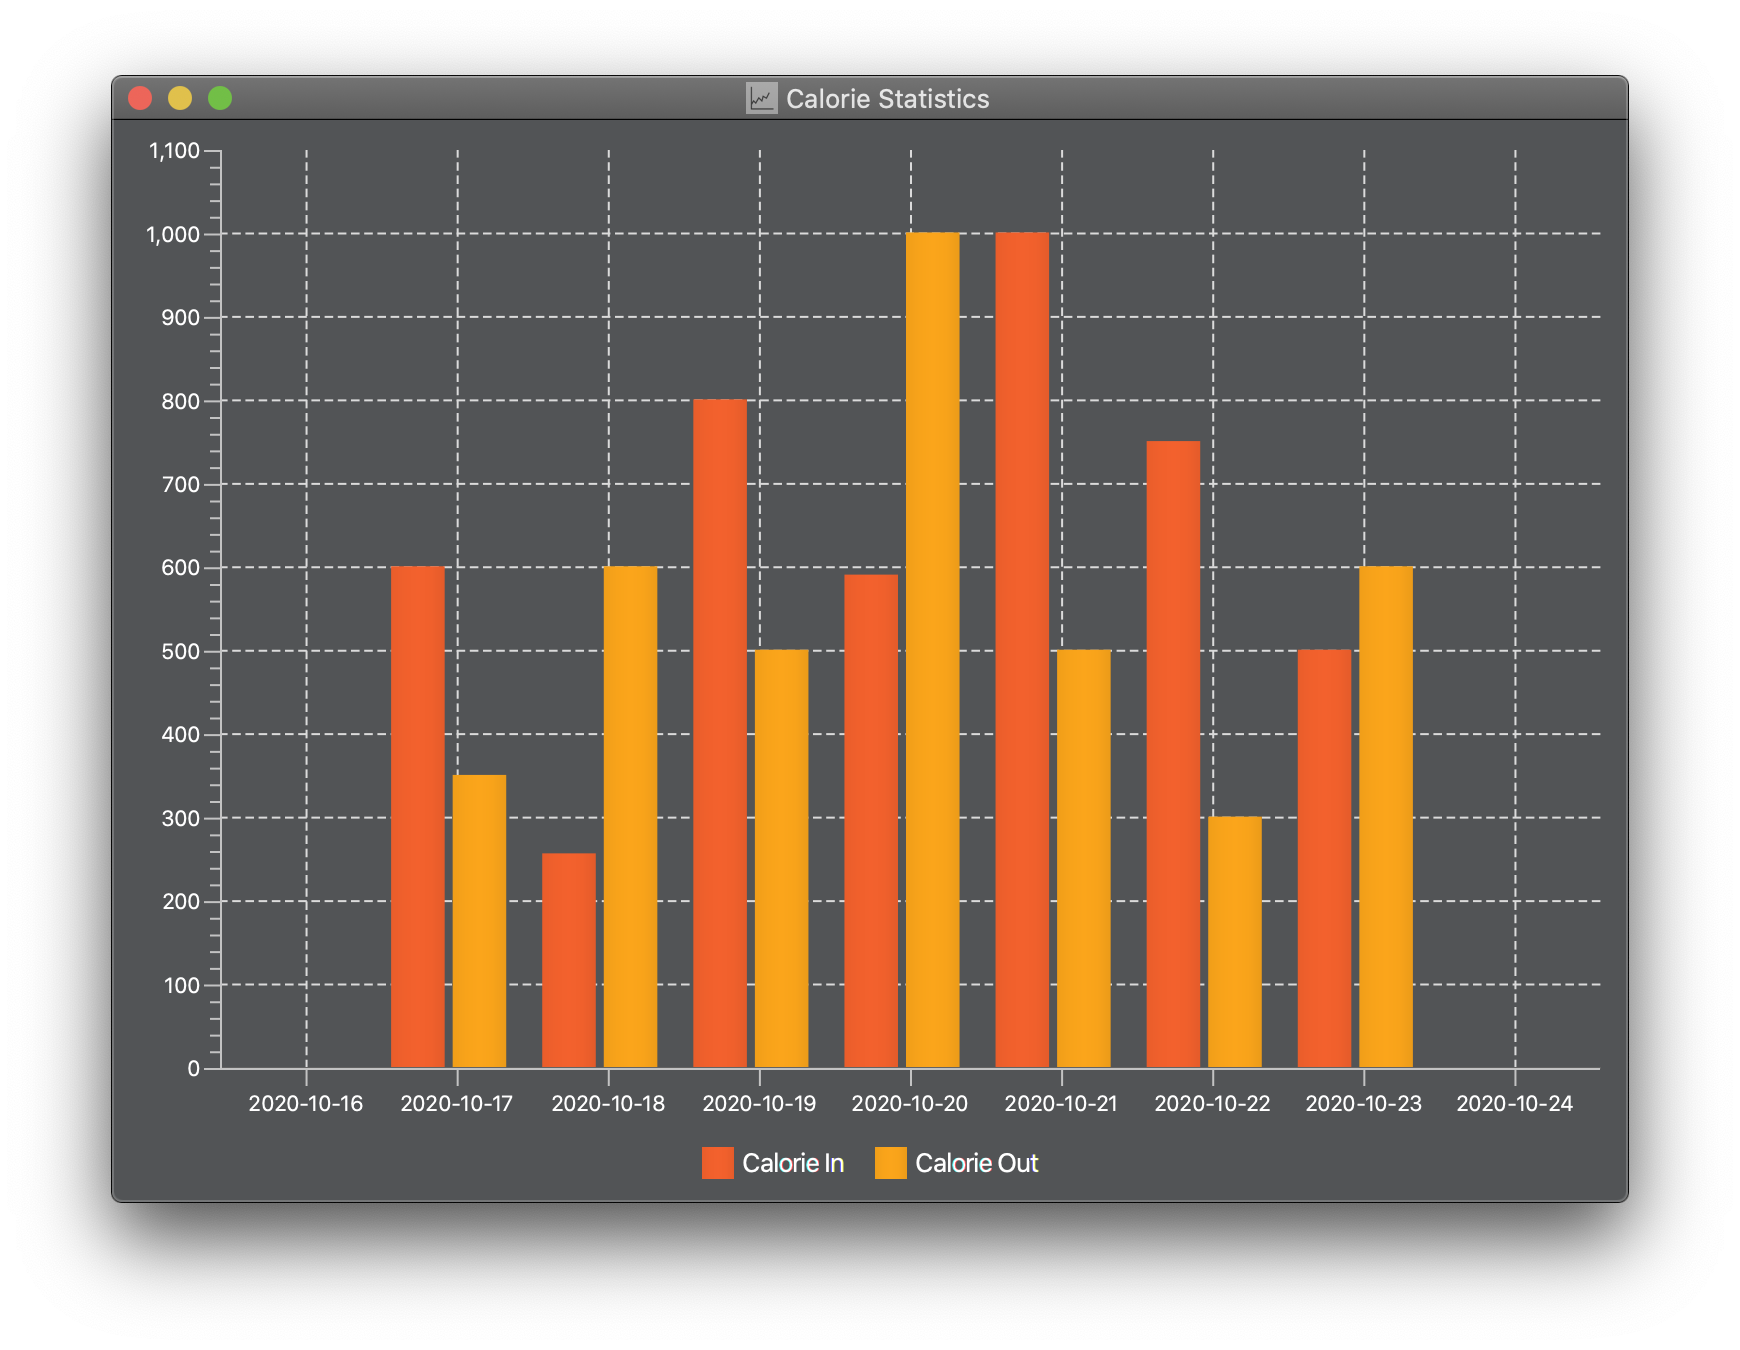
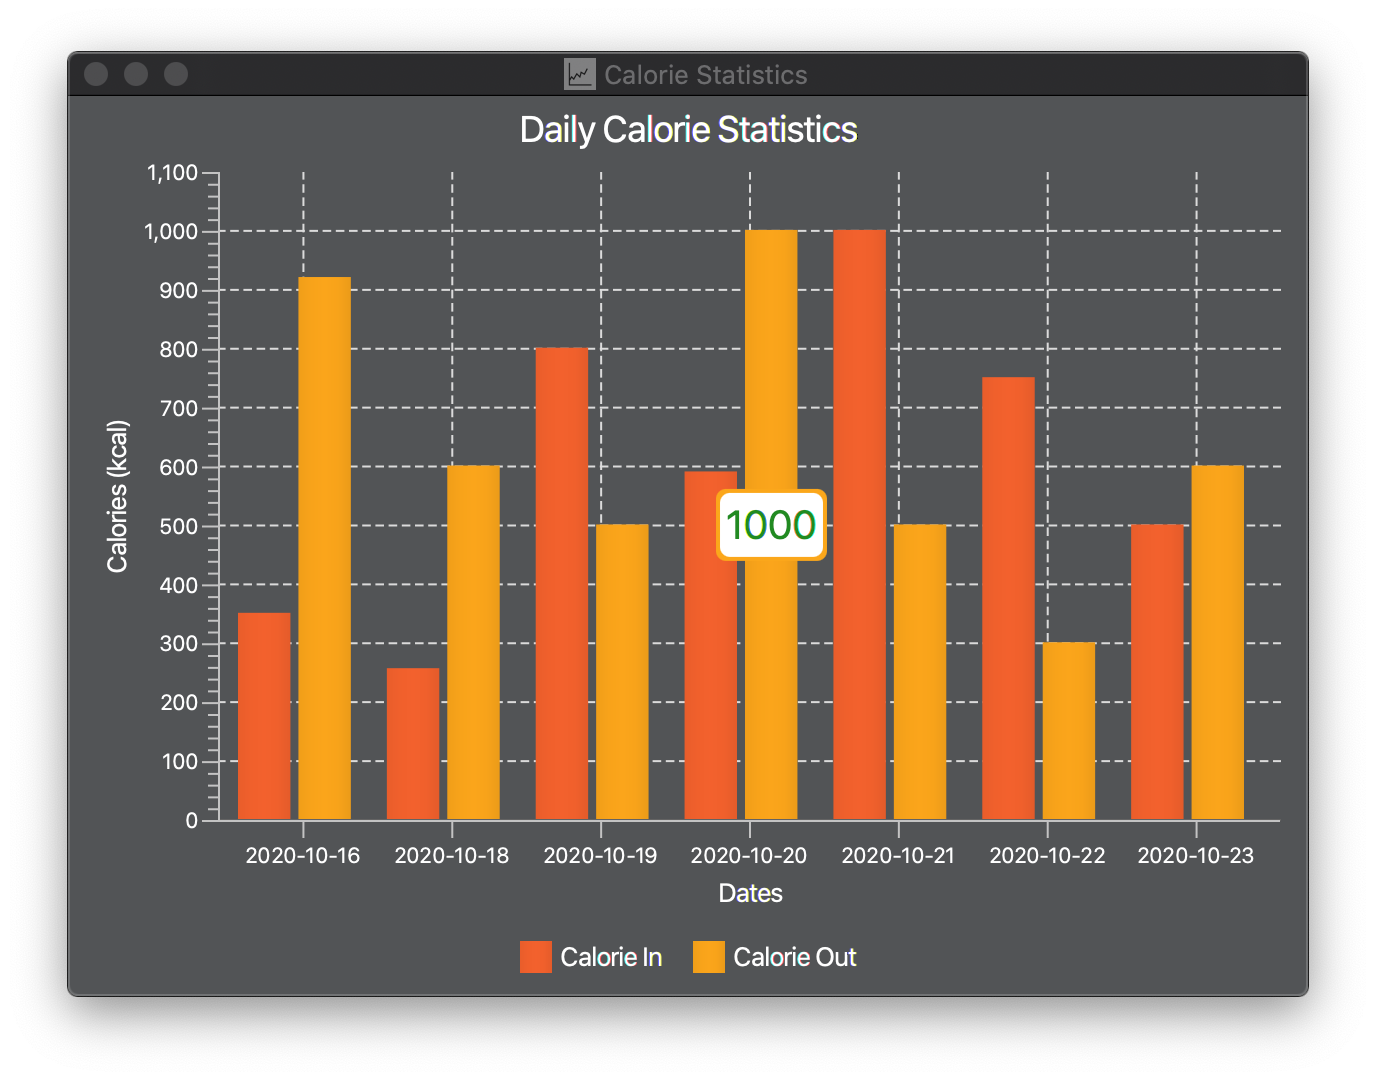
Update UG to include chart improvements

diff --git a/docs/UserGuide.md b/docs/UserGuide.md
@@ -269,6 +269,8 @@ Example: `stats v/all`
 
 This command will display both charts in their respective pop-up windows.
 
+_:bulb:TIP: You can hover your mouse over the data point to see the actual value_
+
 Weight Chart:
 ![weight_stats_chart](images/weight_stats_chart.png)
 Calorie Chart:
